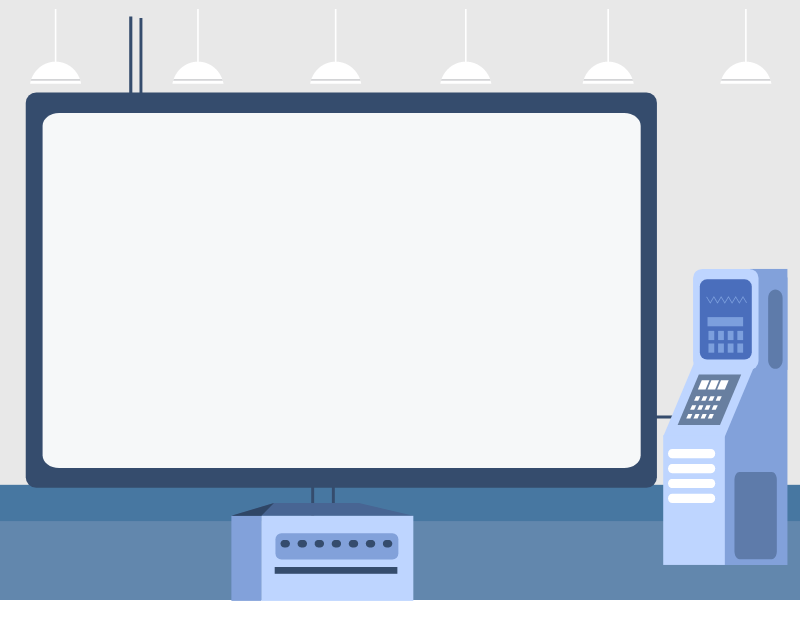
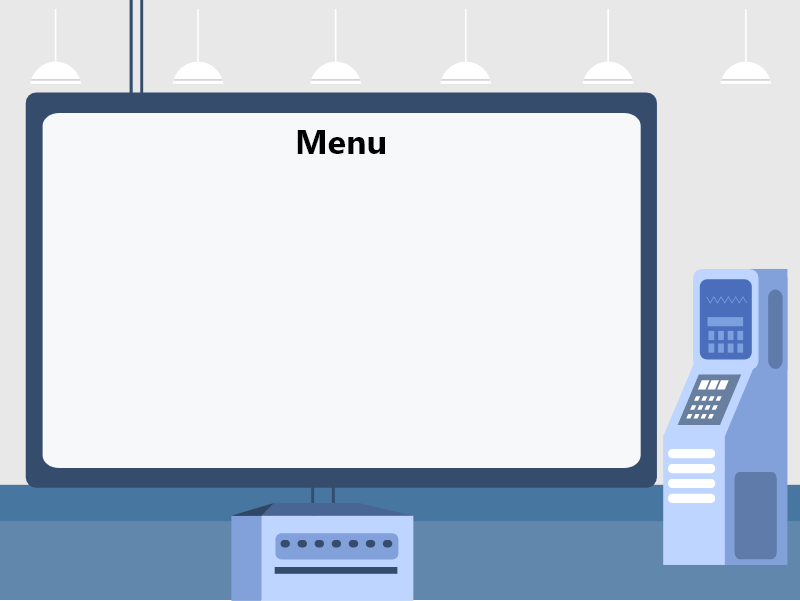
Criação das telas

Changed region(s): [[0.0, 0.4193, 1.0, 1.0], [0.0312, 0.0, 0.8125, 0.2696], [0.9062, 0.1198, 0.9375, 0.1498]]

diff --git a/src/Menu.java b/src/Menu.java
@@ -1,19 +1,35 @@
 
 import javax.swing.ImageIcon;
 
+/*
+ * To change this license header, choose License Headers in Project Properties.
+ * To change this template file, choose Tools | Templates
+ * and open the template in the editor.
+ */
 
+/**
+ *
+ * @author vinic
+ */
 public class Menu extends javax.swing.JFrame {
 
+    /**
+     * Creates new form MenuPrincipal
+     */
     public Menu() {
         initComponents();
         this.setIconImage(new ImageIcon(getClass().getResource("img/icone.png")).getImage());
     }
 
+    /**
+     * This method is called from within the constructor to initialize the form.
+     * WARNING: Do NOT modify this code. The content of this method is always
+     * regenerated by the Form Editor.
+     */
     @SuppressWarnings("unchecked")
     // <editor-fold defaultstate="collapsed" desc="Generated Code">//GEN-BEGIN:initComponents
     private void initComponents() {
 
-        jLabel1 = new javax.swing.JLabel();
         jButton1 = new javax.swing.JButton();
         jButton2 = new javax.swing.JButton();
         jButton3 = new javax.swing.JButton();
@@ -22,19 +38,14 @@ public class Menu extends javax.swing.JFrame {
         background2 = new javax.swing.JLabel();
 
         setDefaultCloseOperation(javax.swing.WindowConstants.EXIT_ON_CLOSE);
-        setCursor(new java.awt.Cursor(java.awt.Cursor.DEFAULT_CURSOR));
         setMaximumSize(new java.awt.Dimension(800, 630));
         setMinimumSize(new java.awt.Dimension(800, 630));
+        setPreferredSize(new java.awt.Dimension(800, 630));
         setResizable(false);
         getContentPane().setLayout(null);
 
-        jLabel1.setIcon(new javax.swing.ImageIcon(getClass().getResource("/img/Menu.png"))); // NOI18N
-        getContentPane().add(jLabel1);
-        jLabel1.setBounds(300, 120, 90, 40);
-
         jButton1.setFont(new java.awt.Font("Tahoma", 1, 18)); // NOI18N
         jButton1.setText("Variáveis");
-        jButton1.setToolTipText("Game 1: aprenda conceitos de variáveis e seus tipos");
         jButton1.setBorder(new javax.swing.border.SoftBevelBorder(javax.swing.border.BevelBorder.RAISED));
         jButton1.setCursor(new java.awt.Cursor(java.awt.Cursor.HAND_CURSOR));
         jButton1.addActionListener(new java.awt.event.ActionListener() {
@@ -46,21 +57,14 @@ public class Menu extends javax.swing.JFrame {
         jButton1.setBounds(100, 200, 220, 80);
 
         jButton2.setFont(new java.awt.Font("Tahoma", 1, 18)); // NOI18N
-        jButton2.setText("Estrutura condicional");
-        jButton2.setToolTipText("Game 3: aprenda sobre tomada de decisões utilizando estruturas condicionais");
+        jButton2.setText("Operadores");
         jButton2.setBorder(new javax.swing.border.SoftBevelBorder(javax.swing.border.BevelBorder.RAISED));
         jButton2.setCursor(new java.awt.Cursor(java.awt.Cursor.HAND_CURSOR));
-        jButton2.addActionListener(new java.awt.event.ActionListener() {
-            public void actionPerformed(java.awt.event.ActionEvent evt) {
-                jButton2ActionPerformed(evt);
-            }
-        });
         getContentPane().add(jButton2);
-        jButton2.setBounds(100, 310, 220, 80);
+        jButton2.setBounds(370, 200, 220, 80);
 
         jButton3.setFont(new java.awt.Font("Tahoma", 1, 18)); // NOI18N
-        jButton3.setText("Operadores");
-        jButton3.setToolTipText("Game 2: aprenda sobre operadores matemáticos");
+        jButton3.setText("Estrutura condicional");
         jButton3.setBorder(new javax.swing.border.SoftBevelBorder(javax.swing.border.BevelBorder.RAISED));
         jButton3.setCursor(new java.awt.Cursor(java.awt.Cursor.HAND_CURSOR));
         jButton3.addActionListener(new java.awt.event.ActionListener() {
@@ -69,23 +73,17 @@ public class Menu extends javax.swing.JFrame {
             }
         });
         getContentPane().add(jButton3);
-        jButton3.setBounds(370, 200, 220, 80);
+        jButton3.setBounds(100, 300, 220, 80);
 
         jButton4.setFont(new java.awt.Font("Tahoma", 1, 18)); // NOI18N
-        jButton4.setText("Laço de repetição");
-        jButton4.setToolTipText("Game 4: aprenda a utilizar laços de repetição");
+        jButton4.setText("Estrutura de repeticção");
         jButton4.setBorder(new javax.swing.border.SoftBevelBorder(javax.swing.border.BevelBorder.RAISED));
-        jButton4.addActionListener(new java.awt.event.ActionListener() {
-            public void actionPerformed(java.awt.event.ActionEvent evt) {
-                jButton4ActionPerformed(evt);
-            }
-        });
+        jButton4.setCursor(new java.awt.Cursor(java.awt.Cursor.HAND_CURSOR));
         getContentPane().add(jButton4);
-        jButton4.setBounds(370, 310, 220, 80);
+        jButton4.setBounds(370, 300, 220, 80);
 
         jButton5.setFont(new java.awt.Font("Tahoma", 1, 18)); // NOI18N
         jButton5.setText("Sair");
-        jButton5.setToolTipText("Encerrar o jogo");
         jButton5.setBorder(new javax.swing.border.SoftBevelBorder(javax.swing.border.BevelBorder.RAISED));
         jButton5.setCursor(new java.awt.Cursor(java.awt.Cursor.HAND_CURSOR));
         jButton5.addActionListener(new java.awt.event.ActionListener() {
@@ -94,41 +92,28 @@ public class Menu extends javax.swing.JFrame {
             }
         });
         getContentPane().add(jButton5);
-        jButton5.setBounds(490, 420, 100, 40);
+        jButton5.setBounds(500, 410, 90, 40);
 
         background2.setIcon(new javax.swing.ImageIcon(getClass().getResource("/img/telaTexto.png"))); // NOI18N
-        background2.setText("jLabel2");
-        background2.setMaximumSize(new java.awt.Dimension(800, 600));
-        background2.setMinimumSize(new java.awt.Dimension(800, 600));
-        background2.setName(""); // NOI18N
-        background2.setPreferredSize(new java.awt.Dimension(800, 600));
         getContentPane().add(background2);
-        background2.setBounds(0, 0, 800, 630);
+        background2.setBounds(0, 0, 800, 600);
 
         pack();
         setLocationRelativeTo(null);
     }// </editor-fold>//GEN-END:initComponents
 
-    private void jButton1ActionPerformed(java.awt.event.ActionEvent evt) {//GEN-FIRST:event_jButton1ActionPerformed
+    private void jButton3ActionPerformed(java.awt.event.ActionEvent evt) {//GEN-FIRST:event_jButton3ActionPerformed
         // TODO add your handling code here:
-    }//GEN-LAST:event_jButton1ActionPerformed
-
-    private void jButton4ActionPerformed(java.awt.event.ActionEvent evt) {//GEN-FIRST:event_jButton4ActionPerformed
-        // TODO add your handling code here:
-    }//GEN-LAST:event_jButton4ActionPerformed
+    }//GEN-LAST:event_jButton3ActionPerformed
 
     private void jButton5ActionPerformed(java.awt.event.ActionEvent evt) {//GEN-FIRST:event_jButton5ActionPerformed
         // TODO add your handling code here:
         System.exit(0);
     }//GEN-LAST:event_jButton5ActionPerformed
 
-    private void jButton2ActionPerformed(java.awt.event.ActionEvent evt) {//GEN-FIRST:event_jButton2ActionPerformed
+    private void jButton1ActionPerformed(java.awt.event.ActionEvent evt) {//GEN-FIRST:event_jButton1ActionPerformed
         // TODO add your handling code here:
-    }//GEN-LAST:event_jButton2ActionPerformed
-
-    private void jButton3ActionPerformed(java.awt.event.ActionEvent evt) {//GEN-FIRST:event_jButton3ActionPerformed
-        // TODO add your handling code here:
-    }//GEN-LAST:event_jButton3ActionPerformed
+    }//GEN-LAST:event_jButton1ActionPerformed
 
     /**
      * @param args the command line arguments
@@ -153,13 +138,16 @@ public class Menu extends javax.swing.JFrame {
         } catch (IllegalAccessException ex) {
             java.util.logging.Logger.getLogger(Menu.class.getName()).log(java.util.logging.Level.SEVERE, null, ex);
         } catch (javax.swing.UnsupportedLookAndFeelException ex) {
-      background2.util.logging.Logger.getLogger(Menu.class.getName()).log(java.util.logging.Level.SEVERE, null, ex);
+            java.util.logging.Logger.getLogger(Menu.class.getName()).log(java.util.logging.Level.SEVERE, null, ex);
         }
+        //</editor-fold>
         //</editor-fold>
 
         /* Create and display the form */
-        java.awt.EventQueue.invokeLater(() -> {
-            new Menu().setVisible(true);
+        java.awt.EventQueue.invokeLater(new Runnable() {
+            public void run() {
+                new Menu().setVisible(true);
+            }
         });
     }
 
@@ -170,6 +158,5 @@ public class Menu extends javax.swing.JFrame {
     private javax.swing.JButton jButton3;
     private javax.swing.JButton jButton4;
     private javax.swing.JButton jButton5;
-    private javax.swing.JLabel jLabel1;
     // End of variables declaration//GEN-END:variables
 }

diff --git a/src/Repeticao1.java b/src/Repeticao1.java
@@ -1,3 +1,6 @@
+
+import javax.swing.ImageIcon;
+
 /*
  * To change this license header, choose License Headers in Project Properties.
  * To change this template file, choose Tools | Templates
@@ -15,6 +18,7 @@ public class Repeticao1 extends javax.swing.JFrame {
      */
     public Repeticao1() {
         initComponents();
+        this.setIconImage(new ImageIcon(getClass().getResource("img/icone.png")).getImage());
     }
 
     /**
@@ -27,16 +31,20 @@ public class Repeticao1 extends javax.swing.JFrame {
     private void initComponents() {
 
         setDefaultCloseOperation(javax.swing.WindowConstants.EXIT_ON_CLOSE);
+        setMaximumSize(new java.awt.Dimension(800, 630));
+        setMinimumSize(new java.awt.Dimension(800, 630));
+        setPreferredSize(new java.awt.Dimension(800, 630));
+        setResizable(false);
 
         javax.swing.GroupLayout layout = new javax.swing.GroupLayout(getContentPane());
         getContentPane().setLayout(layout);
         layout.setHorizontalGroup(
             layout.createParallelGroup(javax.swing.GroupLayout.Alignment.LEADING)
-            .addGap(0, 400, Short.MAX_VALUE)
+            .addGap(0, 800, Short.MAX_VALUE)
         );
         layout.setVerticalGroup(
             layout.createParallelGroup(javax.swing.GroupLayout.Alignment.LEADING)
-            .addGap(0, 300, Short.MAX_VALUE)
+            .addGap(0, 600, Short.MAX_VALUE)
         );
 
         pack();

diff --git a/src/mensagemStatus.java b/src/mensagemStatus.java
@@ -1,0 +1,17 @@
+/*
+ * To change this license header, choose License Headers in Project Properties.
+ * To change this template file, choose Tools | Templates
+ * and open the template in the editor.
+ */
+
+/**
+ *
+ * @author vinic
+ */
+class mensagemStatus {
+
+    static void setText(String iniciando_SO) {
+        throw new UnsupportedOperationException("Not supported yet."); //To change body of generated methods, choose Tools | Templates.
+    }
+    
+}

diff --git a/src/Condicional1.java b/src/Condicional1.java
@@ -1,3 +1,6 @@
+
+import javax.swing.ImageIcon;
+
 /*
  * To change this license header, choose License Headers in Project Properties.
  * To change this template file, choose Tools | Templates
@@ -15,6 +18,7 @@ public class Condicional1 extends javax.swing.JFrame {
      */
     public Condicional1() {
         initComponents();
+        this.setIconImage(new ImageIcon(getClass().getResource("img/icone.png")).getImage());
     }
 
     /**

diff --git a/src/Operadores1.java b/src/Operadores1.java
@@ -1,3 +1,6 @@
+
+import javax.swing.ImageIcon;
+
 /*
  * To change this license header, choose License Headers in Project Properties.
  * To change this template file, choose Tools | Templates
@@ -15,6 +18,7 @@ public class Operadores1 extends javax.swing.JFrame {
      */
     public Operadores1() {
         initComponents();
+        this.setIconImage(new ImageIcon(getClass().getResource("img/icone.png")).getImage());
     }
 
     /**

diff --git a/src/Variaveis1.java b/src/Variaveis1.java
@@ -1,3 +1,6 @@
+
+import javax.swing.ImageIcon;
+
 /*
  * To change this license header, choose License Headers in Project Properties.
  * To change this template file, choose Tools | Templates
@@ -15,6 +18,7 @@ public class Variaveis1 extends javax.swing.JFrame {
      */
     public Variaveis1() {
         initComponents();
+        this.setIconImage(new ImageIcon(getClass().getResource("img/icone.png")).getImage());
     }
 
     /**

diff --git a/src/Splash.java b/src/Splash.java
@@ -32,9 +32,9 @@ public class Splash extends javax.swing.JFrame {
                         JOptionPane.showMessageDialog(null, "Erro ao carregar");
                     }
                 }
-                Menu Mn = new Menu();
-            Mn.setVisible(true);
-            dispose();
+               Menu Mn = new Menu();
+               Mn.setVisible(true);
+               dispose();
             }
             
         }.start();
